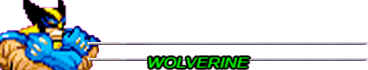
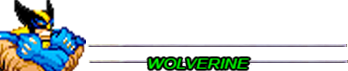
doble barras andando

diff --git a/src/Player.cpp b/src/Player.cpp
@@ -9,13 +9,26 @@ const string ERROR = "ERROR";
 const string INFO = "INFO";
 const string DEBUG = "DEBUG";
 
+SDL_Color color(Uint8 r, Uint8 g, Uint8 b, Uint8 a)
+{
+		SDL_Color col = {r,g,b,a};
+		return col;
+}
+
+const SDL_Color frontCurrentColor = color(255,255,0,1);
+const SDL_Color backCurrentColor = color(167,000,0,0.57);
+const SDL_Color frontSecondaryColor = color(153,128,0,0.4);
+const SDL_Color backSecondaryColor = color(77,0,0,0.57);
+
 Player::Player(CharacterClient *first, CharacterClient *second) {
     Logger *logger = Logger::getInstance();
     logger->log("Inicializacion de personajes para jugador.", DEBUG);
     currentCharacter = first;
     firstCharacter = first;
     secondCharacter = second;
-	barra = new Barra();
+	barraCurrent = new Barra();
+	barraSecondary = new Barra();
+	vidaSecondary = 50;
 }
 
 void Player::update(character_updater_t *updater, bool *isSending, bool becomeActive, int clientNumber) {
@@ -60,7 +73,10 @@ void Player::update(character_updater_t *updater, bool *isSending, bool becomeAc
         setCharacterToChanging();
     }
 
-    barra->update(updater->vida);
+    barraCurrent->update(updater->vida);
+    if(currentCharacter == firstCharacter)
+    	barraSecondary->update(secondCharacter->vida);
+    else barraSecondary->update(firstCharacter->vida);
 
     currentCharacter->update(updater);
     Logger *logger = Logger::getInstance();
@@ -74,7 +90,8 @@ void Player::render(SDL_Renderer *mRenderer, int camX, int camY, int posContrinc
     Logger *logger = Logger::getInstance();
     logger->log("Renderizado de personaje - Render.", DEBUG);
     currentCharacter->render(mRenderer, camX, camY, posContrincante);
-    this->barra->render(mRenderer);
+    this->barraCurrent->render(mRenderer,frontCurrentColor, backCurrentColor);
+    this->barraSecondary->render(mRenderer,frontSecondaryColor,backSecondaryColor);
 
 }
 
@@ -86,7 +103,10 @@ void Player::renderProyectiles(SDL_Renderer *mRenderer, int camX, int camY){
 
 void Player::renderBanner(SDL_Renderer *mRenderer)
 {
-	currentCharacter->renderBanner(mRenderer);
+	currentCharacter->renderBanner(mRenderer, true);
+	if(currentCharacter == firstCharacter)
+		secondCharacter->renderBanner(mRenderer,false);
+	else firstCharacter->renderBanner(mRenderer,false);
 }
 
 
@@ -167,11 +187,16 @@ void Player::setCurrentCharacter(int i, SDL_Renderer *renderer) {
 
     currentCharacter->loadBanner(renderer);
 
+	if(currentCharacter == firstCharacter)
+		secondCharacter->loadBanner(renderer);
+	else firstCharacter->loadBanner(renderer);
+
 }
 
 void Player::setBarra(bool left)
 {
-	barra->setBarra(left);
+	barraCurrent->setBarra(left,true);
+	barraSecondary->setBarra(left,false);
 }
 
 

diff --git a/src/CharactersClient/RyuClient.cpp b/src/CharactersClient/RyuClient.cpp
@@ -254,6 +254,7 @@ void RyuClient::load(SDL_Renderer *renderer, int posContrincante) {
                                                renderer, &m_Texture);
             break;
 
+
         case MAKINGINTRO:
             this->loadBanner(renderer);
             this->loader->loadActionSprite(characterFilePath + "intro", MVC_FILEPATH, currentSprite,
@@ -285,13 +286,22 @@ void RyuClient::render(SDL_Renderer *mRenderer, int camX, int camY, int posContr
 
 void RyuClient::loadBanner(SDL_Renderer *renderer)
 {
-    if (this->clientNumber == 0 || this->clientNumber == 1) {
-        this->loader->loadActionSprite(characterFilePath + "banner_left",
-                                       MVC_FILEPATH, 0, FILE_EXTENSION, renderer,
-                                       &characterLeftBanner);
-    } else {
-        this->loader->loadActionSprite(characterFilePath + "banner_right",
-                                       MVC_FILEPATH, 0, FILE_EXTENSION, renderer,
-                                       &characterRightBanner);
-    }
+	if (this->clientNumber == 0 || this->clientNumber == 1) {
+			this->loader->loadActionSprite(characterFilePath + "banner_left",
+					MVC_FILEPATH, 0, FILE_EXTENSION, renderer,
+					&characterLeftCurrentBanner);
+
+			this->loader->loadActionSprite(characterFilePath + "banner_left",
+					MVC_FILEPATH, 1, FILE_EXTENSION, renderer,
+					&characterLeftSecondaryBanner);
+	} else {
+
+		this->loader->loadActionSprite(characterFilePath + "banner_right",
+				MVC_FILEPATH, 0, FILE_EXTENSION, renderer,
+				&characterRightCurrentBanner);
+
+			this->loader->loadActionSprite(characterFilePath + "banner_right",
+					MVC_FILEPATH, 1, FILE_EXTENSION, renderer,
+					&characterRightSecondaryBanner);
+	}
 }

diff --git a/src/CharactersClient/WolverineClient.cpp b/src/CharactersClient/WolverineClient.cpp
@@ -247,6 +247,7 @@ void WolverineClient::load(SDL_Renderer *renderer, int posContrincante) {
                                                renderer, &m_Texture);
             break;
 
+
         case MAKINGINTRO:
         	this->loadBanner(renderer);
             this->loader->loadActionSprite(characterFilePath + "intro", MVC_FILEPATH, currentSprite, FILE_EXTENSION,
@@ -278,14 +279,22 @@ void WolverineClient::load(SDL_Renderer *renderer, int posContrincante) {
 
 void WolverineClient::loadBanner(SDL_Renderer *renderer)
 {
-	if(this->clientNumber == 0 || this->clientNumber == 1)
-	{
-		this->loader->loadActionSprite(characterFilePath + "banner_left", MVC_FILEPATH, 0,
-		                                               FILE_EXTENSION, renderer, &characterLeftBanner);
-	}
-	else
-	{
-		this->loader->loadActionSprite(characterFilePath + "banner_right", MVC_FILEPATH, 0,
-				                                               FILE_EXTENSION, renderer, &characterRightBanner);
+	if (this->clientNumber == 0 || this->clientNumber == 1) {
+			this->loader->loadActionSprite(characterFilePath + "banner_left",
+					MVC_FILEPATH, 0, FILE_EXTENSION, renderer,
+					&characterLeftCurrentBanner);
+
+			this->loader->loadActionSprite(characterFilePath + "banner_left",
+					MVC_FILEPATH, 1, FILE_EXTENSION, renderer,
+					&characterLeftSecondaryBanner);
+	} else {
+
+		this->loader->loadActionSprite(characterFilePath + "banner_right",
+				MVC_FILEPATH, 0, FILE_EXTENSION, renderer,
+				&characterRightCurrentBanner);
+
+			this->loader->loadActionSprite(characterFilePath + "banner_right",
+					MVC_FILEPATH, 1, FILE_EXTENSION, renderer,
+					&characterRightSecondaryBanner);
 	}
 }

diff --git a/src/Barra.cpp b/src/Barra.cpp
@@ -8,19 +8,22 @@
 #include "Barra.h"
 #include<iostream>
 
-const int WIDTH_BAR = 279;
+const int WIDTH_BAR = 259;
 const int HEIGHT_BAR = 17;
 const int POS_X_LEFT = 88;
-const int POS_X_RIGHT = 434;
-const int POS_Y = 74;
+const int POS_X_RIGHT = 453;
+const int POS_Y_CURRENT = 88;
+const int POS_Y_SECONDARY = 61;
+
+const Uint8 SECONDARY_RED = 255;
+const Uint8 SECONDARY_GREEN = 200;
+const Uint8 SECONDARY_BLUE = 000;
 
 Barra::Barra() {
 	this->width = WIDTH_BAR;
 	this->height = HEIGHT_BAR;
 	this->health = 1;
-	frontColor = color(255,255,0,1);
-	backColor= color(167,000,0,0.57);
-	this->posY = POS_Y;
+
 
 }
 
@@ -28,7 +31,7 @@ Barra::~Barra() {
 	// TODO Auto-generated destructor stub
 }
 
-void Barra::render(SDL_Renderer* m_Renderer)
+void Barra::render(SDL_Renderer* m_Renderer, SDL_Color frontColor, SDL_Color backColor)
 {
 	health = health > 1.f ? 1.f : health < 0.f ? 0.f : health;
 	SDL_Color old;
@@ -56,7 +59,7 @@ void Barra::update(float life)
 
 }
 
-void Barra::setBarra(bool left)
+void Barra::setBarra(bool left, bool isCurrent)
 {
 	this->hw = (int) ((float) width * health);
 
@@ -64,11 +67,17 @@ void Barra::setBarra(bool left)
 	{
 		this->posX = POS_X_LEFT;
 		this->hx = this->posX;
+		if(isCurrent)
+			this->posY = POS_Y_CURRENT;
+		else this->posY = POS_Y_SECONDARY;
 	}
 	else
 	{
 		this->posX = POS_X_RIGHT;
 		this->hx = posX + (width - hw);
+		if(isCurrent)
+			this->posY = POS_Y_CURRENT;
+		else this->posY = POS_Y_SECONDARY;
 	}
 }
 

diff --git a/src/CharactersClient/CharacterClient.cpp b/src/CharactersClient/CharacterClient.cpp
@@ -42,11 +42,22 @@ void CharacterClient::render(SDL_Renderer *mRenderer, int camX, int camY, int po
                      mRenderer); //esto es los valores que se cambian la resolucion
 }
 
-void CharacterClient::renderBanner(SDL_Renderer *mRenderer)
+void CharacterClient::renderBanner(SDL_Renderer *mRenderer, bool isCurrent)
 {
 	if(clientNumber == 0 || clientNumber == 1)
-		characterLeftBanner.render(0,29,368,72,mRenderer);
-	else characterRightBanner.render(432,29,368,72,mRenderer);
+	{
+		if(isCurrent)
+			characterLeftCurrentBanner.render(0,41,348,73,mRenderer);
+		else
+			characterLeftSecondaryBanner.render(0,41,348,73,mRenderer);
+	}
+	else
+	{
+		if(isCurrent)
+			characterRightCurrentBanner.render(452,41,348,73,mRenderer);
+		else
+			characterRightSecondaryBanner.render(452,41,348,73,mRenderer);
+	}
 }
 
 int CharacterClient::getPosX() {
@@ -74,8 +85,10 @@ int CharacterClient::getCentro() {
 CharacterClient::~CharacterClient() {
     delete loader;
     m_Texture.free();
-    characterLeftBanner.free();
-    characterRightBanner.free();
+    characterLeftCurrentBanner.free();
+    characterRightCurrentBanner.free();
+    characterLeftSecondaryBanner.free();
+    characterRightSecondaryBanner.free();
 }
 
 void CharacterClient::positionUpdate(int *x) {

diff --git a/src/CharactersClient/IronmanClient.cpp b/src/CharactersClient/IronmanClient.cpp
@@ -284,12 +284,21 @@ void IronmanClient::render(SDL_Renderer *mRenderer, int camX, int camY, int posC
 void IronmanClient::loadBanner(SDL_Renderer *renderer)
 {
 	if (this->clientNumber == 0 || this->clientNumber == 1) {
-		this->loader->loadActionSprite(characterFilePath + "banner_left",
-				MVC_FILEPATH, 0, FILE_EXTENSION, renderer,
-				&characterLeftBanner);
+			this->loader->loadActionSprite(characterFilePath + "banner_left",
+					MVC_FILEPATH, 0, FILE_EXTENSION, renderer,
+					&characterLeftCurrentBanner);
+
+			this->loader->loadActionSprite(characterFilePath + "banner_left",
+					MVC_FILEPATH, 1, FILE_EXTENSION, renderer,
+					&characterLeftSecondaryBanner);
 	} else {
+
 		this->loader->loadActionSprite(characterFilePath + "banner_right",
 				MVC_FILEPATH, 0, FILE_EXTENSION, renderer,
-				&characterRightBanner);
+				&characterRightCurrentBanner);
+
+			this->loader->loadActionSprite(characterFilePath + "banner_right",
+					MVC_FILEPATH, 1, FILE_EXTENSION, renderer,
+					&characterRightSecondaryBanner);
 	}
 }

diff --git a/src/CharactersClient/SpidermanClient.cpp b/src/CharactersClient/SpidermanClient.cpp
@@ -288,12 +288,21 @@ void SpidermanClient::load(SDL_Renderer *renderer, int posContrincante) {
 void SpidermanClient::loadBanner(SDL_Renderer *renderer)
 {
 	if (this->clientNumber == 0 || this->clientNumber == 1) {
-		this->loader->loadActionSprite(characterFilePath + "banner_left",
-				MVC_FILEPATH, 0, FILE_EXTENSION, renderer,
-				&characterLeftBanner);
+			this->loader->loadActionSprite(characterFilePath + "banner_left",
+					MVC_FILEPATH, 0, FILE_EXTENSION, renderer,
+					&characterLeftCurrentBanner);
+
+			this->loader->loadActionSprite(characterFilePath + "banner_left",
+					MVC_FILEPATH, 1, FILE_EXTENSION, renderer,
+					&characterLeftSecondaryBanner);
 	} else {
+
 		this->loader->loadActionSprite(characterFilePath + "banner_right",
 				MVC_FILEPATH, 0, FILE_EXTENSION, renderer,
-				&characterRightBanner);
+				&characterRightCurrentBanner);
+
+			this->loader->loadActionSprite(characterFilePath + "banner_right",
+					MVC_FILEPATH, 1, FILE_EXTENSION, renderer,
+					&characterRightSecondaryBanner);
 	}
 }

diff --git a/src/CharactersClient/CharacterClient.h b/src/CharactersClient/CharacterClient.h
@@ -60,12 +60,16 @@ public:
 
     virtual void loadBanner(SDL_Renderer *renderer) = 0;
 
-    void renderBanner(SDL_Renderer *mRenderer);
+    void renderBanner(SDL_Renderer *mRenderer, bool isCurrent);
 
-    Texture characterLeftBanner;
-    Texture characterRightBanner;
+    Texture characterLeftCurrentBanner;
+    Texture characterRightCurrentBanner;
+    Texture characterLeftSecondaryBanner;
+    Texture characterRightSecondaryBanner;
 
     ProjectileClient* projectile;
+
+    int vida;
 
 protected:
     CharacterClient(int mPosX, int mPosY, int width, int sobrante, bool isLookingLeft, int widthSprite,
@@ -97,7 +101,6 @@ protected:
 
   //  int mVelX, mVelY;
 
-    int vida;
 
 };
 

diff --git a/src/MCGame.cpp b/src/MCGame.cpp
@@ -309,7 +309,7 @@ void MCGame::render() {
                 middleGround->render(camera.x, camera.y, m_Renderer, &middleGroundTexture, nullptr);
             } else if (renderizables[i] == frontGround) {
                 frontGround->render(0, 0, m_Renderer, &frontGroundTexture, &camera);
-                banner.render(0, 10, 800, 91, m_Renderer);
+                banner.render(0, 11, 800, 104, m_Renderer);
 
             } else if (renderizables[i] == players[1]) {
                 players[1]->render(m_Renderer, camera.x, camera.y, players[0]->getCentro());

diff --git a/src/Barra.h b/src/Barra.h
@@ -22,15 +22,18 @@ private:
 	SDL_Color frontColor;
 	int hx;
 	int hw;
+    Uint8 r_value;
+    Uint8 g_value;
+    Uint8 b_value;
 
 	//SDL_Color color(Uint8 r, Uint8 g, Uint8 b, Uint8 a);
 
 public:
-	void render(SDL_Renderer* m_Renderer);
+	void render(SDL_Renderer* m_Renderer, SDL_Color frontColor, SDL_Color backColor);
 	SDL_Color color(Uint8 r, Uint8 g, Uint8 b, Uint8 a);
 	Barra();
 	void update(float life);
-	void setBarra(bool left);
+	void setBarra(bool left, bool isCurrent);
 	virtual ~Barra();
 };
 

diff --git a/src/Player.h b/src/Player.h
@@ -54,7 +54,9 @@ private:
     CharacterClient* firstCharacter;
     CharacterClient* secondCharacter;
     Controls* controls;
-    Barra* barra;
+    Barra* barraCurrent;
+    Barra* barraSecondary;
+    int vidaSecondary;
 
     void changeCharacter();
     void setCharacterToChanging();

diff --git a/src/TimeBanner.cpp b/src/TimeBanner.cpp
@@ -48,6 +48,6 @@ void TimeBanner::load(SDL_Renderer *m_Renderer) {
 }
 
 void TimeBanner::render(SDL_Renderer *mRenderer) {
-    texture.render(this->position, 20, 30, 30 ,mRenderer);
+    texture.render(this->position, 28, 27, 27 ,mRenderer);
 }
 
